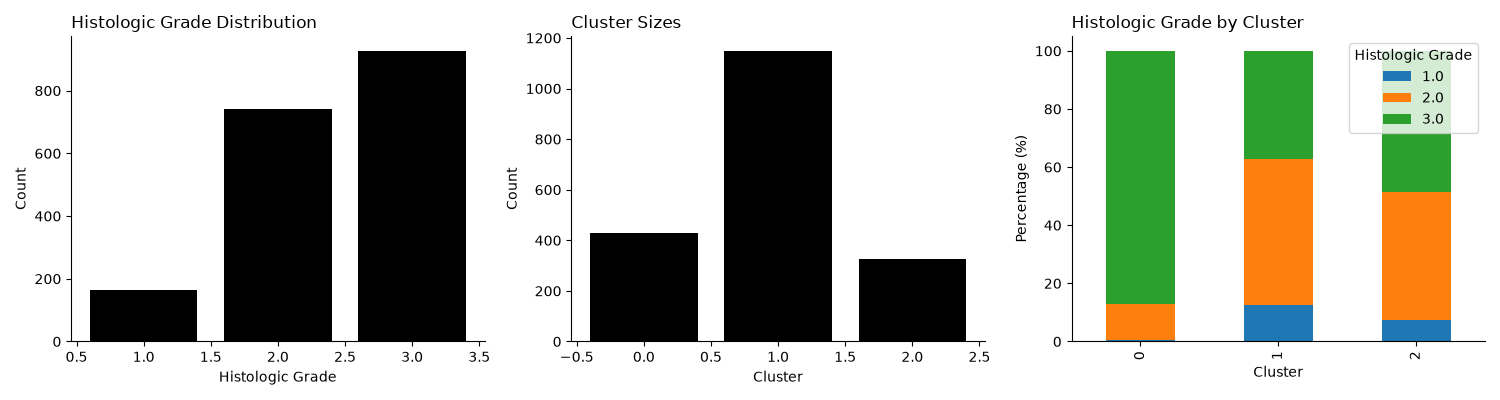
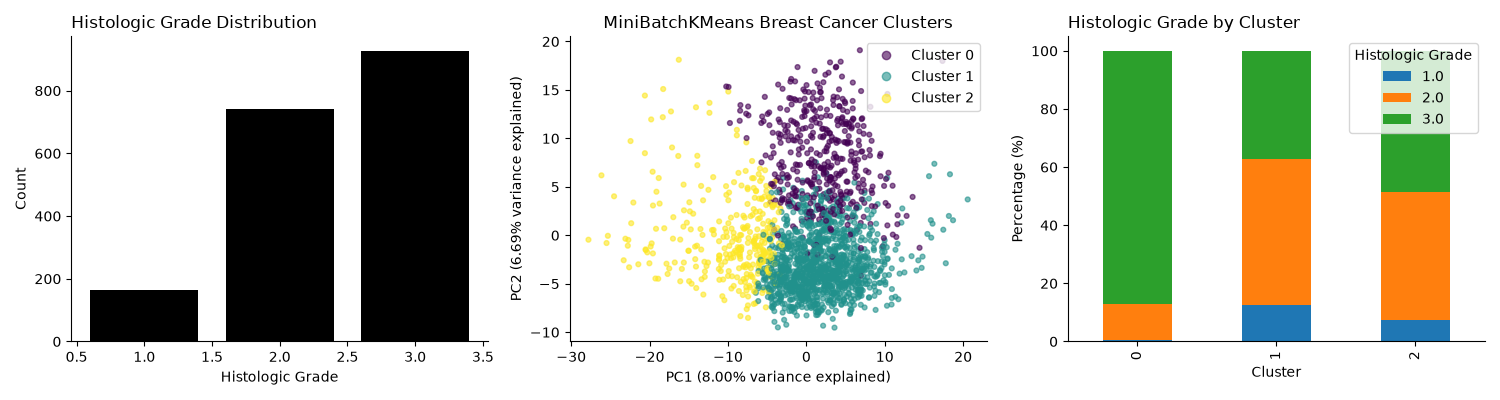
Clustering graph

diff --git a/src/histologic_grade_clustering.py b/src/histologic_grade_clustering.py
@@ -20,11 +20,12 @@ The histologic grades are not used to fit the clustering model.
 """
 
 import argparse
-from pathlib import Path
-
 import matplotlib.pyplot as plt
 import pandas as pd
+from pathlib import Path
 from sklearn.cluster import MiniBatchKMeans
+from sklearn.decomposition import PCA
+from sklearn.metrics import silhouette_score
 
 
 def main():
@@ -145,6 +146,18 @@ def main():
     print("\nCluster sizes:")
     print(cluster_counts)
 
+    # Calculate the total variance explained by the PCA transformation.
+    pca = PCA(n_components=2)
+    x_pca = pca.fit_transform(x)
+    explained_variance = pca.explained_variance_ratio_.sum() * 100
+    print("\nExplained Variance:")
+    print(f"{explained_variance:.2f}%")
+
+    # Calculate the silhouette score to evaluate clustering quality.
+    score = silhouette_score(x, clusters)
+    print("\nSilhouette Score:")
+    print(score)
+
     # Create three plots to summarize the clustering analysis.
     fig, ax = plt.subplots(nrows=1, ncols=3, figsize=(15, 4))
     ax = ax.flatten()
@@ -159,15 +172,32 @@ def main():
     ax[0].set_xlabel("Histologic Grade")
     ax[0].set_ylabel("Count")
 
-    # Plot 2: Number of tumor samples assigned to each cluster.
-    ax[1].bar(
-        x=cluster_counts.index,
-        height=cluster_counts.values,
-        color="black"
+    # Plot 2: Scatter plot of tumors by cluster assignment.
+    # Plot tumors colored by their MiniBatchKMeans cluster.
+    ax[1].scatter = ax[1].scatter(
+        x_pca[:, 0],
+        x_pca[:, 1],
+        c=clusters,
+        cmap="viridis",
+        s=12,
+        alpha=0.6
     )
-    ax[1].set_title("Cluster Sizes", loc="left")
-    ax[1].set_xlabel("Cluster")
-    ax[1].set_ylabel("Count")
+
+    ax[1].set_xlabel(
+        f"PC1 ({pca.explained_variance_ratio_[0] * 100:.2f}%"
+        f" variance explained)"
+    )
+
+    ax[1].set_ylabel(
+        f"PC2 ({pca.explained_variance_ratio_[1] * 100:.2f}%"
+        f" variance explained)"
+    )
+    ax[1].set_title("MiniBatchKMeans Breast Cancer Clusters")
+
+    ax[1].legend(
+        handles=ax[1].scatter.legend_elements()[0],
+        labels=["Cluster 0", "Cluster 1", "Cluster 2"]
+    )
 
     # Plot 3: Percentage of each histologic grade within each cluster.
     cluster_grade_percent.plot(

diff --git a/README.md b/README.md
@@ -8,7 +8,7 @@ This project uses Python scientific software libraries to analyze the METABRIC b
 
 The objective of this analysis is to investigate whether breast cancer tumors with similar gene-expression profiles also share similar histologic grades. 
 
-Histologic grade describes the appearance of tumor cells under a microscope and is used to estimate how aggressively tumor cells will grow.  Breast cancer is categorized as Grade 1 (low), Grade 2 (intermediate), or Grade 3 (high).
+Histologic grade describes the microscopic appearance of tumor cells and is used to estimate the tumor cells likely growth behavior.  Breast cancer is categorized as Grade 1 (low), Grade 2 (intermediate), or Grade 3 (high).
 
 Gene-expression data for 331 genes are represented using mRNA z-scores. The z-score indicates how many standard deviations a gene's expression in a particular tumor is above or below the mean expression of that gene in the reference population.
 
@@ -20,19 +20,19 @@ The METABRIC dataset contains 1,904 tumor samples, of which 1,832 have known his
 
 MiniBatchKMeans was used to divide the samples into three clusters based on their gene-expression measurements.
 
+To visualize the clusters, Principal Component Analysis (PCA) was used to reduce the 331 gene-expression measurements to two principal components. The first two principal components explained 14.69% of the total variation in gene expression. The model produced a silhouette score of 0.067, indicating weak separation between clusters in the original 331-dimensional gene-expression space.
+
 | Cluster | Total Samples | Grade 1 (%) | Grade 2 (%) | Grade 3 (%) |
 |---|---:|---:|---:|---:|
 | 0 | 429 | 0.48 | 12.35 | 87.17 |
 | 1 | 1,149 | 12.67 | 50.14 | 37.19 |
 | 2 | 326 | 7.52 | 43.79 | 48.69 |
 
-Histologic grades were not used to fit the clustering model. Samples with missing grades were included in clustering but excluded from the grade comparison.
+Grade percentages are calculated using only tumor samples with known histologic grades within each cluster, while cluster sizes include all 1,904 tumor samples. Histologic grades were not used to fit the clustering model. Samples with missing grades were included in clustering but excluded from the grade comparison. 
 
 Cluster 0 contained a substantially higher proportion of Grade 3 tumors (87.17%) compared with the other clusters. Clusters 1 and 2 showed more mixed distributions of histologic grades.
 
 These results suggest that gene-expression patterns may be associated with histologic grade, particularly among samples assigned to Cluster 0. However, the three clusters did not correspond directly to the three histologic grades.
-
-Grade percentages are calculated using only tumor samples with known histologic grades within each cluster, while cluster sizes include all 1,904 tumor samples.
 
 ![Histologic grade clustering results](figures/histologic_grade_clustering.png)
 
@@ -44,8 +44,10 @@ The analysis was performed in Python using pandas, Matplotlib, and scikit-learn.
 2. Extracted normalized gene-expression measurements, excluding clinical metadata and mutation columns.
 3. Applied MiniBatchKMeans with three clusters (`n_clusters=3`) and a random seed of 0.
 4. Assigned each tumor sample to a cluster based on gene-expression similarity.
-5. Compared cluster assignments with known histologic grades using pandas.
-6. Generated three plots showing histologic grade distribution, cluster sizes, and grade percentages within each cluster.
+5. Applied Principal Component Analysis (PCA) to reduce the 331 gene-expression features to two dimensions for visualization.
+6. Calculated the silhouette score using the original 331 gene-expression features to evaluate cluster separation
+7. Compared cluster assignments with known histologic grades using pandas.
+8. Generated three plots showing histologic grade distribution, molecular clusters in PCA space, and histologic grade percentages within each cluster.
 
 The gene-expression measurements were already normalized as z-scores, so no additional feature scaling was applied. Three clusters were selected to explore their correspondence with the three histologic grades, rather than through an optimization procedure.
 
